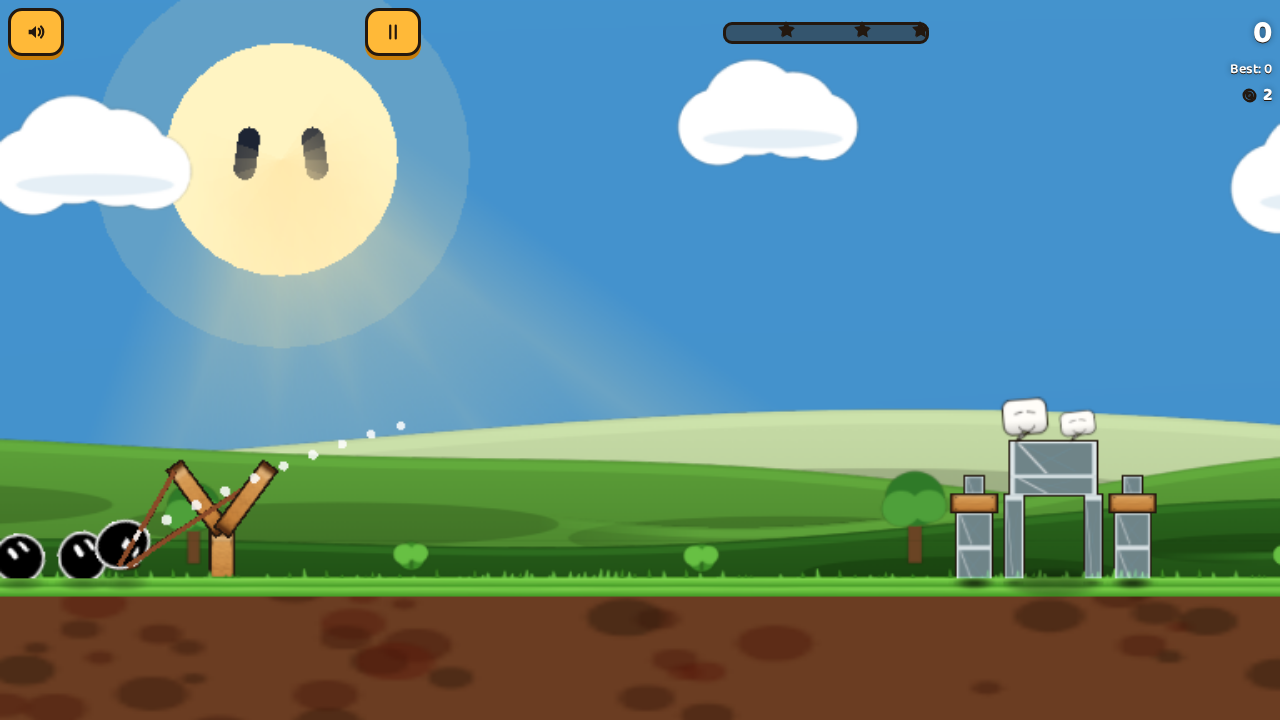
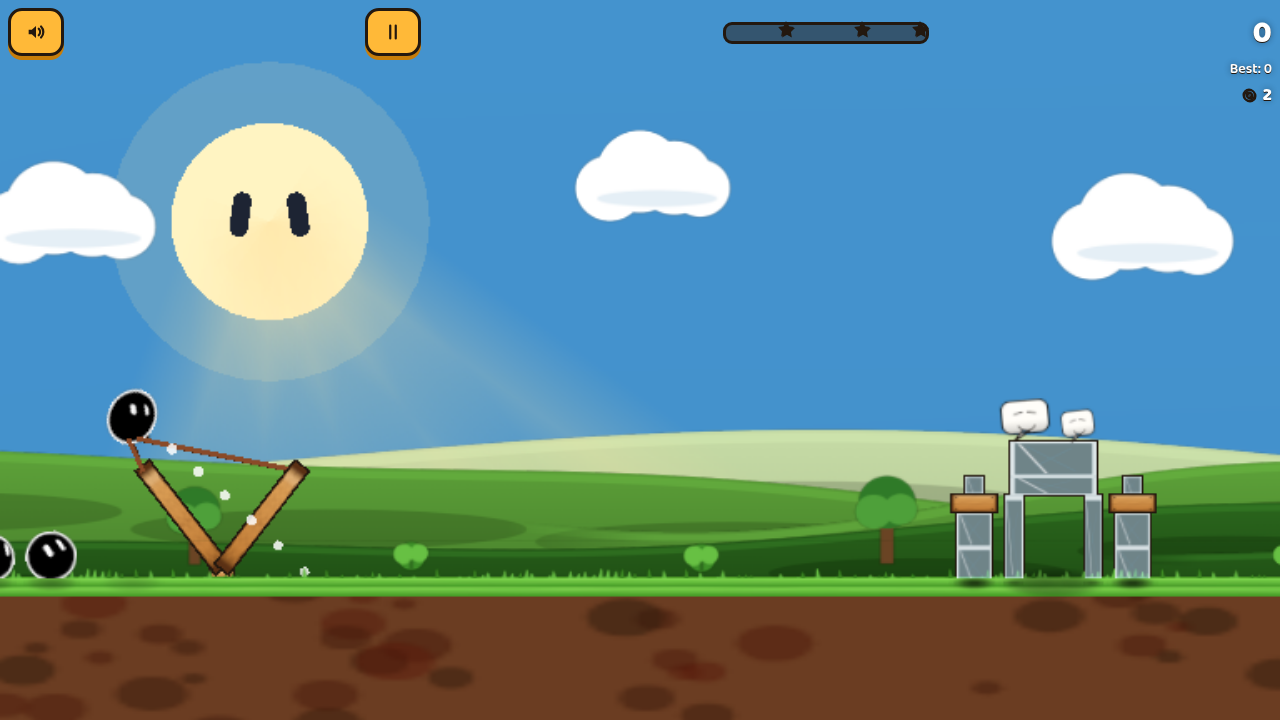
fix: polish pass 2 — single-capsule celestial eyes, math-proven sling clearance, opaque loaded bot, cropped hop strip

diff --git a/src/render/SlingView.ts b/src/render/SlingView.ts
@@ -11,12 +11,34 @@ import { ILL } from './illustrations';
 import { bandWobble, hopArc, slingHopPose, HOP_CROUCH } from './slingAnim';
 import type { ShadowCaster } from './BlobShadows';
 
-const FORK = 1.08;
-// Tips sit just above the loaded bot's center so it nests inside the Y
-// opening; the crotch stays below the biggest bot (heavy r=0.72) so wood
-// never crosses its face. A trunk runs from the joint down into the ground.
-const TIP_Y = SLING.anchor.y + 0.35;
-const FORK_JOINT_Y = SLING.anchor.y - TUNING.bots.heavy.r - 0.28;
+// Fork geometry is chosen so the loaded bot (centered on SLING.anchor) sits
+// fully inside the Y: the perpendicular distance from the anchor to each
+// arm's centerline must exceed r_max + arm half-width + a visual margin
+// (see tests/unit/sling-geometry.test.ts). Tips rise just above the bot's
+// center; the joint drops well below the biggest bot (heavy r=0.72) so wood
+// never crosses the bot, and a trunk runs from the joint into the ground.
+export const SLING_FORK = 1.8;
+export const SLING_TIP_Y = SLING.anchor.y + 0.35;
+export const SLING_JOINT_Y = SLING.anchor.y - 1.85;
+export const SLING_ARM_W = 0.46; // face width 0.36 + outline
+const TIP_EXTEND = 0.12; // wood continues a hair past the band anchor
+
+/** Perpendicular distance from the anchor to one arm's centerline segment. */
+export function slingArmClearance(side: -1 | 1 = 1): number {
+  const jx = SLING.anchor.x;
+  const jy = SLING_JOINT_Y;
+  const tx = SLING.anchor.x + side * SLING_FORK;
+  const ty = SLING_TIP_Y + TIP_EXTEND;
+  const dx = tx - jx;
+  const dy = ty - jy;
+  const len2 = dx * dx + dy * dy;
+  const t = Math.max(
+    0,
+    Math.min(1, ((SLING.anchor.x - jx) * dx + (SLING.anchor.y - jy) * dy) / len2)
+  );
+  return Math.hypot(jx + t * dx - SLING.anchor.x, jy + t * dy - SLING.anchor.y);
+}
+
 const REST_SAG = 0.3;
 const BONUS_POP_EVERY = 0.5;
 
@@ -204,16 +226,15 @@ export class SlingView {
 
   /** Y-shaped wooden fork: trunk + two angled arms to the band tips. */
   private buildFork(): void {
-    const trunkH = FORK_JOINT_Y + 0.4;
-    this.plankPiece(0.5, trunkH, SLING.anchor.x, FORK_JOINT_Y - trunkH / 2 + 0.02, -0.6, 0);
+    const trunkH = SLING_JOINT_Y + 0.4;
+    this.plankPiece(0.5, trunkH, SLING.anchor.x, SLING_JOINT_Y - trunkH / 2 + 0.02, -0.6, 0);
     for (const side of [-1, 1]) {
-      const tipX = SLING.anchor.x + side * FORK;
-      const dx = tipX - SLING.anchor.x;
-      const dy = TIP_Y + 0.12 - FORK_JOINT_Y;
+      const dx = side * SLING_FORK;
+      const dy = SLING_TIP_Y + TIP_EXTEND - SLING_JOINT_Y;
       const len = Math.hypot(dx, dy);
       const angle = Math.atan2(dy, dx) - Math.PI / 2;
       const z = side < 0 ? -0.58 : 0.52;
-      this.plankPiece(0.36, len, SLING.anchor.x + dx / 2, FORK_JOINT_Y + dy / 2, z, angle);
+      this.plankPiece(0.36, len, SLING.anchor.x + dx / 2, SLING_JOINT_Y + dy / 2, z, angle);
     }
   }
 
@@ -242,8 +263,8 @@ export class SlingView {
   }
 
   private setBandsTo(cupX: number, cupY: number, sag: number, z: { back: number; front: number }): void {
-    const tipL = { x: SLING.anchor.x - FORK, y: TIP_Y };
-    const tipR = { x: SLING.anchor.x + FORK, y: TIP_Y };
+    const tipL = { x: SLING.anchor.x - SLING_FORK, y: SLING_TIP_Y };
+    const tipR = { x: SLING.anchor.x + SLING_FORK, y: SLING_TIP_Y };
     const mid = (t: { x: number; y: number }) => ({
       x: (t.x + cupX) / 2,
       y: (t.y + cupY) / 2 - sag,
@@ -353,7 +374,7 @@ export class SlingView {
     // Slot x positions with the hopper still in line (old) and removed (new),
     // so each waiting bot can hop forward to its new spot instead of snapping.
     const spots = (list: readonly BotKind[]): number[] => {
-      let qx = SLING.anchor.x - FORK - 1.5;
+      let qx = SLING.anchor.x - SLING_FORK - 1.5;
       const out: number[] = [];
       for (const qk of list) {
         qx -= TUNING.bots[qk].r;

diff --git a/src/render/Scenery.ts b/src/render/Scenery.ts
@@ -363,21 +363,34 @@ export class Scenery {
     for (const lid of this.lids) lid.scale.y = Math.max(0.05, 1 - closed);
   }
 
+  /** One flat capsule shape per eye — a single mesh, so nothing can smear. */
+  private static eyeCapsule(w: number, h: number): THREE.ShapeGeometry {
+    const r = w / 2;
+    const half = h / 2 - r;
+    const shape = new THREE.Shape();
+    shape.absarc(0, half, r, 0, Math.PI, false); // top cap
+    shape.lineTo(-r, -half);
+    shape.absarc(0, -half, r, Math.PI, Math.PI * 2, false); // bottom cap
+    shape.closePath();
+    return new THREE.ShapeGeometry(shape, 16);
+  }
+
   private addEyes(): void {
     const face = this.face;
-    face.position.z = 0.15;
+    // Above the light shafts (they sit at z=5) so a translucent ray band can
+    // never wash across the eyes and read as a ghosted second pill.
+    face.position.z = 5.5;
     this.celestial.add(face);
     // Dark rounded pills on the pale disc — same style as the sticker bots
     // (e.g. the white cloud), with a slight inward tilt.
     const pill = new THREE.MeshBasicMaterial({ color: '#1d2433', fog: false });
-    const geo = new THREE.CapsuleGeometry(SUN_EYE_W / 2, SUN_EYE_H - SUN_EYE_W, 4, 12);
+    const geo = Scenery.eyeCapsule(SUN_EYE_W, SUN_EYE_H);
     for (const side of [-1, 1]) {
-      const eye = new THREE.Group();
+      const eye = new THREE.Mesh(geo, pill);
       eye.position.set(side * SUN_EYE_X, SUN_EYE_Y, 0);
       eye.rotation.z = side * SUN_EYE_TILT;
       eye.userData.homeX = side * SUN_EYE_X;
       eye.userData.homeY = SUN_EYE_Y;
-      eye.add(new THREE.Mesh(geo, pill));
       face.add(eye);
       this.pupils.push(eye);
       this.lids.push(eye);

diff --git a/tests/unit/sling-geometry.test.ts b/tests/unit/sling-geometry.test.ts
@@ -1,0 +1,41 @@
+import { describe, expect, it } from 'vitest';
+import { SLING } from '../../src/sling/launch';
+import { TUNING, type BotKind } from '../../src/config/tuning';
+import {
+  SLING_ARM_W,
+  SLING_FORK,
+  SLING_JOINT_Y,
+  SLING_TIP_Y,
+  slingArmClearance,
+} from '../../src/render/SlingView';
+
+// The loaded bot's center sits on SLING.anchor. The fork must be wide and deep
+// enough that the perpendicular distance from the anchor to each arm's
+// centerline exceeds r + armHalfWidth + margin for every bot kind — otherwise
+// the wood reads as running through the bot instead of cradling it.
+describe('sling fork clearance', () => {
+  const ARM_HALF = SLING_ARM_W / 2;
+  const MARGIN = 0.08;
+
+  it('centerline distance clears every bot kind plus margin', () => {
+    for (const side of [-1, 1] as const) {
+      const d = slingArmClearance(side);
+      for (const kind of Object.keys(TUNING.bots) as BotKind[]) {
+        const r = TUNING.bots[kind].r;
+        expect(
+          d - ARM_HALF - r,
+          `side ${side} vs ${kind} (r=${r})`
+        ).toBeGreaterThanOrEqual(MARGIN);
+      }
+    }
+  });
+
+  it('tips flank the biggest bot with room to spare', () => {
+    // Tips sit above the anchor so the bot nests inside the Y opening, and the
+    // joint drops below the largest bot's underside.
+    const rMax = Math.max(...Object.values(TUNING.bots).map((b) => b.r));
+    expect(SLING_TIP_Y).toBeGreaterThan(SLING.anchor.y);
+    expect(SLING_JOINT_Y).toBeLessThan(SLING.anchor.y - rMax);
+    expect(SLING_FORK * 2).toBeGreaterThan(rMax * 2 + SLING_ARM_W);
+  });
+});

diff --git a/src/app/App.ts b/src/app/App.ts
@@ -229,6 +229,10 @@ export class App {
       }),
       loop: this.loop,
       fixtures,
+      enterLevel: (id) => {
+        this.startLevel(id);
+        this.session.skipIntro();
+      },
     });
     if (window.__debug.freezeTime) {
       const setFreeze = window.__debug.freezeTime;
@@ -305,9 +309,11 @@ export class App {
     this.session.loadLevel(def, rm);
     this.renderer.setChapter(def.chapter);
     this.renderer.setTerrain(def.terrain);
-    // Pin the parallax reference to the deterministic intro start view instead
-    // of the next rendered frame — that frame can race the camera snap.
-    this.renderer.anchorParallax(rm ? this.camera.slingView(def) : this.camera.structureView(def));
+    // Pin the parallax reference to the sling view — the framing the scenery
+    // was laid out for (moon/sun, hills, trees sit where designed). The intro
+    // pan then drifts layers naturally, and the deterministic value keeps the
+    // first rendered frame from racing the camera snap.
+    this.renderer.anchorParallax(this.camera.slingView(def));
     this.audio.setChapter(def.chapter);
     const sim = this.session.getSim();
     if (sim) sim.fragmentsEnabled = true;

diff --git a/src/debug/DebugApi.ts b/src/debug/DebugApi.ts
@@ -49,6 +49,9 @@ export function createDebugApi(opts: {
   getSling: () => { phase: string; pullX: number; pullY: number };
   loop: FixedStepLoop;
   fixtures?: boolean;
+  /** Full App-level level entry (screens, chapter, parallax, sling reset) so
+   * fixture captures render the real in-game state, not a bare session. */
+  enterLevel: (id: string) => void;
 }): DebugApi {
   const snap = (): DebugSnapshot => {
     const sim = opts.session.getSim();
@@ -92,8 +95,7 @@ export function createDebugApi(opts: {
 
   if (opts.fixtures) {
     api.loadLevel = (id: string) => {
-      const def = levelById(id);
-      if (def) opts.session.loadLevel(def, true);
+      if (levelById(id)) opts.enterLevel(id);
     };
     api.launch = (angleDeg: number, speed: number) => opts.session.launch(angleDeg, speed);
     api.advance = (steps: number) => opts.loop.advance(steps);

diff --git a/tasks/state.md b/tasks/state.md
@@ -46,7 +46,7 @@
 | `0c74c90` | 6 | CI root cause: SwiftShader ~1 fps + frameDt clamp 0.1 s + 5-step cap ran the sim at ~10% wall time → all post-launch polls timed out. FixedStepLoop now has a 60 ms/frame wall-clock catch-up budget, 40-step cap, 0.5 s frame-dt cap — sim keeps real-time pace on slow renderers |
 | `a2c2f58` | 6 | Pseudo-3D head yaw matching user's refs: per-eye planes/textures, sin-slide clamped inside a silhouette ellipse, cos foreshortening + near/far asymmetry, edge fade to back-of-head at \|yaw\|>~0.96, yaw-velocity lean/squash (off under reduced motion). Queue + loaded-sling idle look-around (4.8 s cycle, staggered), loss turn-away-and-hold, rare title gag |
 | `a29b340` | 6 | User animation references committed to `art/bots/` (gif/mp4/webp/originals, not shipped); motion comparison sheets + lost-turnaway evidence in `docs/evidence/bots/`; `tools/capture-bot-motion.mjs` + `tools/motion-sheet.html`; regenerated level1-idle baseline |
-| `fix/polish-sling-music-celestial` | polish | Sun/moon pill eyes via `yawEyeTransforms`; music retune (roots G2–D3, sine/triangle, `SWING 0.59`, AABA motifs, kick+dark shaker, `MUSIC_LP_HZ 2000`, `MUSIC_BUS 0.09`); sling Y-fork resized so the bot seats in the pouch (tips `anchor.y+0.35`, crotch below heavy's underside, layered back arm→band→pouch→bot→front band→arm); queue→pouch hop + staggered queue advance (`SLING_HOP_SECONDS` 0.7 shared const); intro = `structureView` close-up (1.2 s hold + ≤5% push) → 1.4 s pan to sling (`INTRO_SECONDS` 2.8), tap skips, RM snaps to sling. Determinism fixes: parallax anchored to intro start view (`setParallaxAnchor`), reduced motion stills scenery + queue bounce, `snapshot().frame` render counter, camera-settle poll needs frames+3 still samples |
+| `fix/polish-sling-music-celestial` | polish | Sun/moon pill eyes via `yawEyeTransforms`; music retune (roots G2–D3, sine/triangle, `SWING 0.59`, AABA motifs, kick+dark shaker, `MUSIC_LP_HZ 2000`, `MUSIC_BUS 0.09`); sling Y-fork resized so the bot seats in the pouch (tips `anchor.y+0.35`, crotch below heavy's underside, layered back arm→band→pouch→bot→front band→arm); queue→pouch hop + staggered queue advance (`SLING_HOP_SECONDS` 0.7 shared const); intro = `structureView` close-up (1.2 s hold + ≤5% push) → 1.4 s pan to sling (`INTRO_SECONDS` 2.8), tap skips, RM snaps to sling. Pass-2 fixes: eyes are one ShapeGeometry capsule mesh each (face z raised above light shafts); fork widened/deepened (`SLING_FORK` 1.8, `SLING_JOINT_Y` anchor−1.85, `SLING_TIP_Y` anchor+0.35, `SLING_ARM_W` 0.46 — arm-centerline clearance 1.134 ≥ r_max 0.72 + half-arm 0.23 + 0.08, unit-tested per bot kind); `__debug.loadLevel` routes through `App.startLevel`+`skipIntro` so fixture captures show the real loaded bot; parallax anchored to `slingView` (keeps citadel moon in frame during aim). Determinism: reduced motion stills scenery + queue bounce, `snapshot().frame` render counter, camera-settle poll needs frames+3 still samples |
 
 ## Next steps (in order)
 
